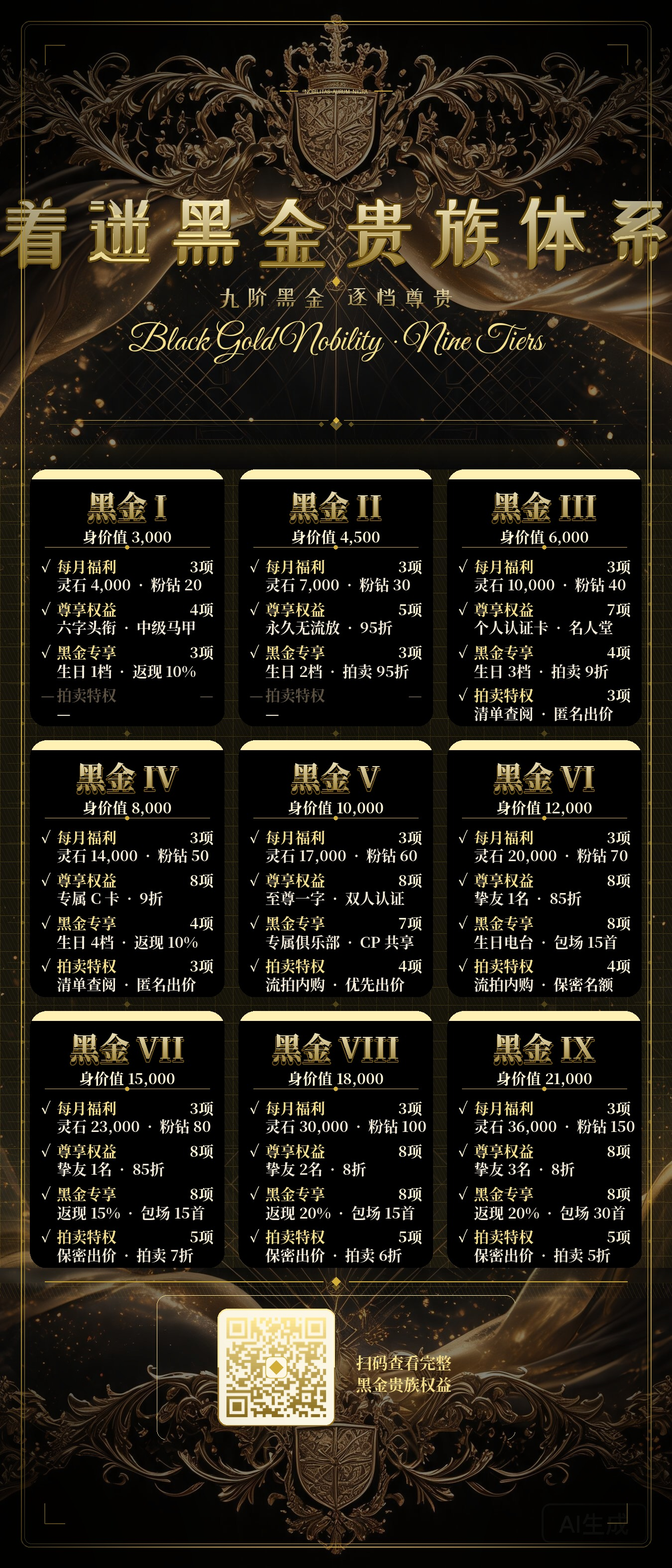
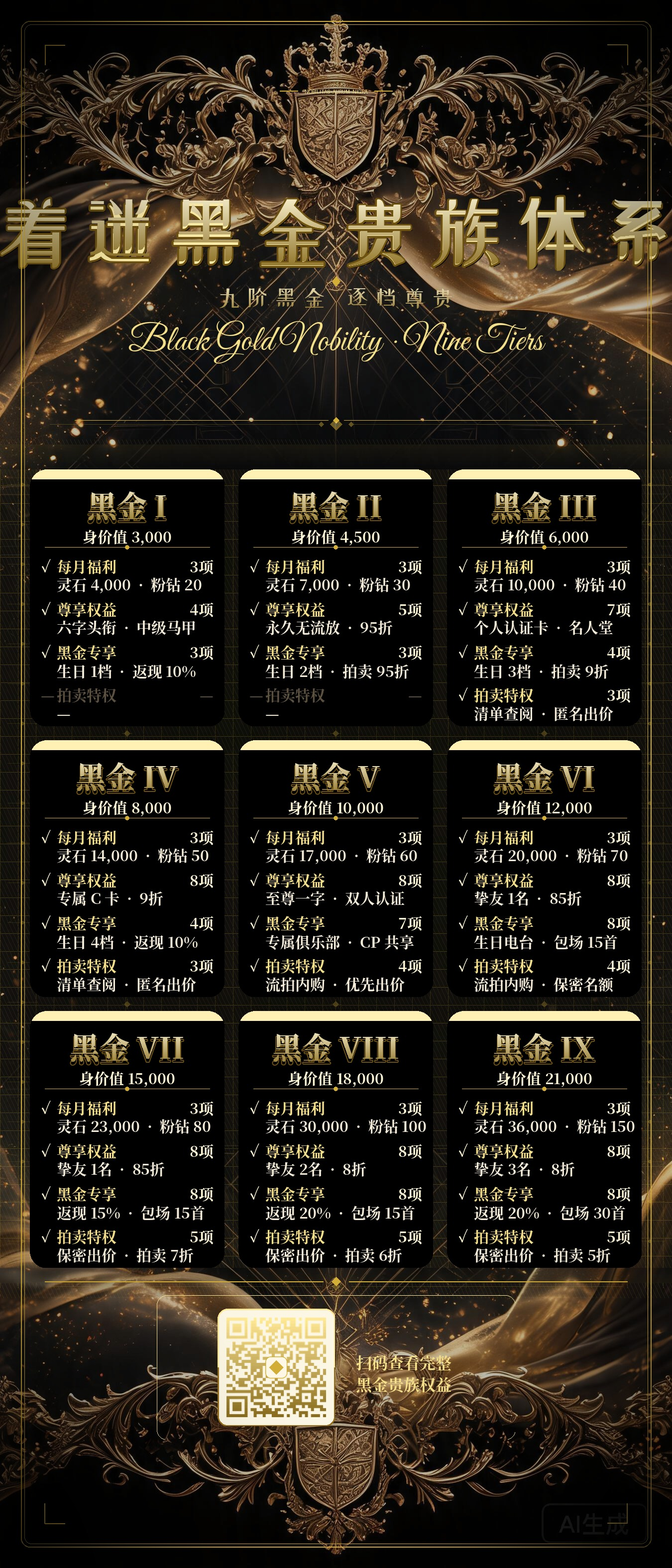
feat: 彻底移除卡片黑色背景 + 减淡全局遮罩

diff --git a/make_poster.py b/make_poster.py
@@ -65,7 +65,7 @@ CREAM=(244,236,216); MUTED=(185,169,138); DIM=(92,80,64)
 
 base=Image.open(SRC).convert('RGBA')
 canvas=base.copy()
-ov=Image.new('RGBA',(W,H),(8,6,3,120))
+ov=Image.new('RGBA',(W,H),(8,6,3,60))
 canvas=Image.alpha_composite(canvas,ov)
 draw=ImageDraw.Draw(canvas,'RGBA')
 
@@ -254,7 +254,7 @@ QR_TOP=GRID_BOTTOM+55
 card_bg=Image.new('RGBA',(W,H),(0,0,0,0))
 cbd=ImageDraw.Draw(card_bg)
 # 卡片区域整体底色（极淡，不再是黑色填充）
-cbd.rectangle([(0,GRID_TOP-50),(W,GRID_BOTTOM+30)],fill=(212,175,55,18))
+cbd.rectangle([(0,GRID_TOP-50),(W,GRID_BOTTOM+30)],fill=(212,175,55,10))
 # 暗金色网格线
 grid_step=36
 for gy in range(GRID_TOP-40,GRID_BOTTOM+40,grid_step):
@@ -346,13 +346,10 @@ def glass_card(x,y,w,h,i):
     shadow=shadow.filter(ImageFilter.GaussianBlur(14))
     canvas.alpha_composite(shadow,(x-10,y))
 
-    # ===== 2. 半透明玻璃底（几乎全透，背景 Baroque 花纹直接透出）=====
+    # ===== 2. 完全透明玻璃底（无任何颜色填充，背景 Baroque 花纹直接透出）=====
     rmask=Image.new('L',(w,h),0)
     ImageDraw.Draw(rmask).rounded_rectangle((0,0,w,h),radius=R,fill=255)
-    # 极淡的深色调（alpha 15，几乎全透，仅让文字有微弱底色区分）
-    tint=Image.new('RGBA',(w,h),(15,10,18,15))
-    tint.putalpha(rmask)
-    canvas.alpha_composite(tint,(x,y))
+    # 不再添加 tint 颜色层，卡片完全透明
 
     # ===== 3. 描金细边框（1px 主金 + 1px 亮金内描，精致高级）=====
     # 外层主金边 1px（上亮下暗渐变，更细）
